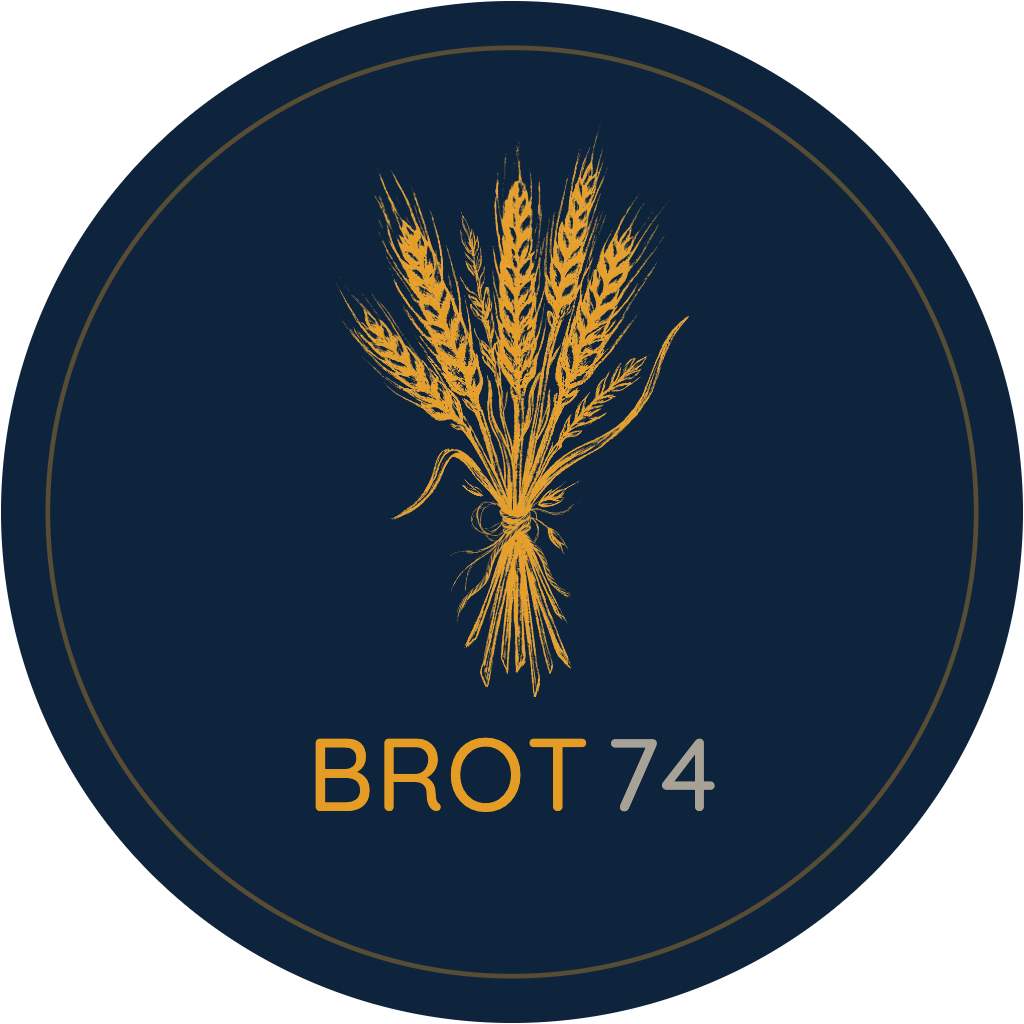
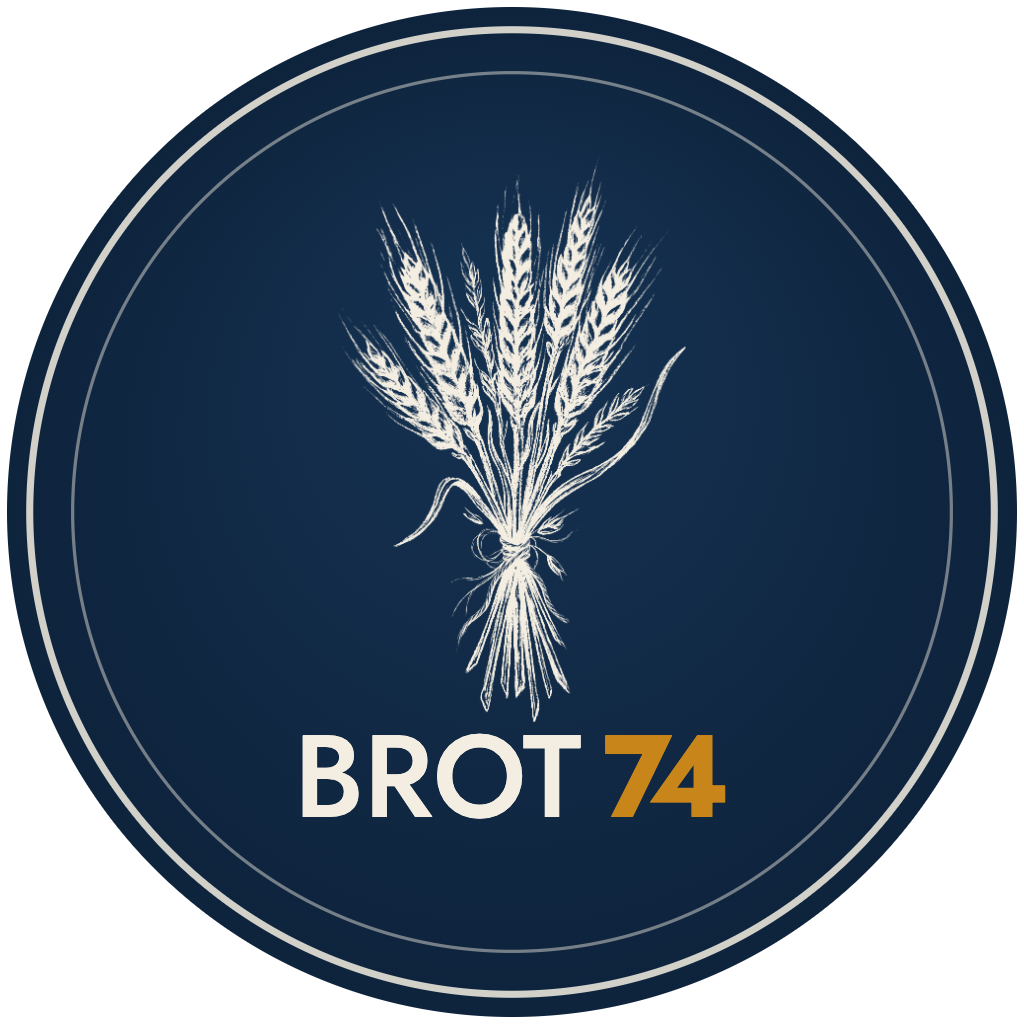
feat: v15 — sello ilustrado navy en pantalla de confirmación

Changed region(s): [[0.0, 0.0, 1.0, 1.0], [0.2812, 0.1562, 0.7188, 0.8125]]

diff --git a/app/confirmacion/page.tsx b/app/confirmacion/page.tsx
@@ -36,17 +36,13 @@ function ConfirmacionContent() {
         }}
       >
         {/* Sello / logo */}
-        <div
-          className="mseal navy mx-auto"
-          style={{ width: "116px", height: "116px", fontSize: "116px", filter: "drop-shadow(0 14px 26px rgba(14,35,60,.28))" }}
-        >
-          {/* eslint-disable-next-line @next/next/no-img-element */}
-          <img src="/ramillete-mono-amber.png" alt="BROT 74" />
-          <div className="wm">
-            <span className="b">BROT</span>
-            <span className="n">74</span>
-          </div>
-        </div>
+        {/* eslint-disable-next-line @next/next/no-img-element */}
+        <img
+          src="/sello-brot-navy.png"
+          alt="BROT 74"
+          className="mx-auto"
+          style={{ width: "116px", height: "116px", display: "block", filter: "drop-shadow(0 14px 26px rgba(14,35,60,.28))" }}
+        />
 
         {/* Título */}
         <h1 className="font-bold text-[33px] tracking-[-0.01em] text-navy mt-[26px] mb-0">
